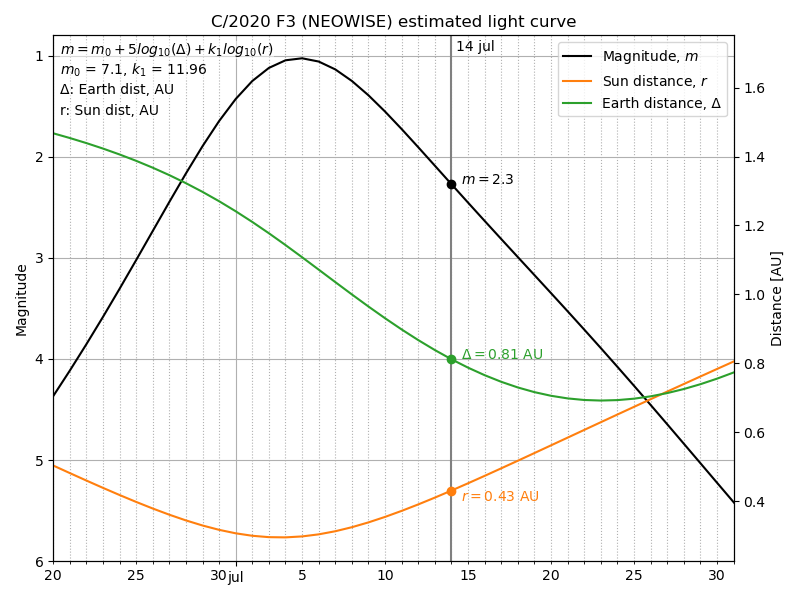
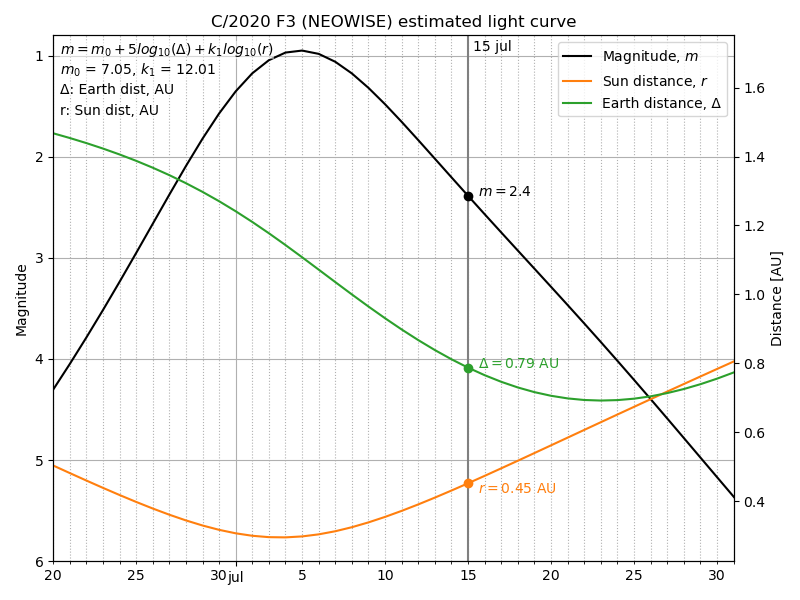
Update light curve 15 Jul

diff --git a/light_curve.py b/light_curve.py
@@ -17,9 +17,9 @@ data_fname = "horizons_C2020F3NEOWISE.txt"
 # Δ: comet-Earth distance, AU
 # r: comet-Sun distance, AU
 # Source: http://astro.vanbuitenen.nl/comet/2020F3
-# Updated 14 jul
-m0 = 7.10
-k1 = 11.96
+# Updated 15 jul
+m0 = 7.05
+k1 = 12.01
 def get_magnitude(r, D):
   return m0 + 5*log10(D) + k1*log10(r)
 
